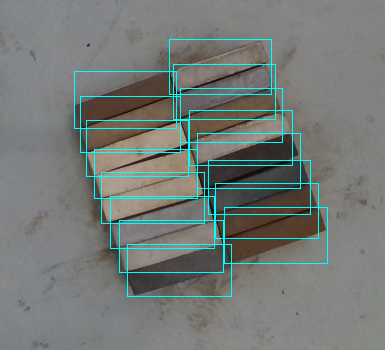
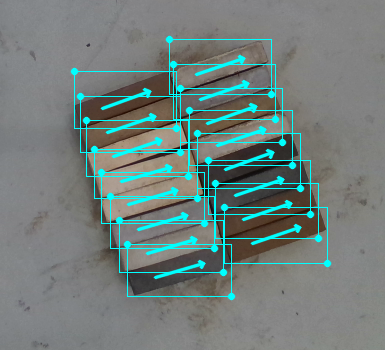
new figures

diff --git a/01 Classic Vision/create_figs_data/create_figs_data.cpp b/01 Classic Vision/create_figs_data/create_figs_data.cpp
@@ -1,9 +1,31 @@
 #include <iostream>
 #include <opencv2/opencv.hpp>
 #include <vector>
-//#include "predictions.h"
+#include "../Includes/predictions.h"
 #include "../Includes/util.h"
 #include "../Includes/annotation_loader.h"
+
+void print_angle_predictions(cv::Mat& img, bounding_box BB, int line_width, cv::Scalar color = cv::Scalar(255, 255, 0))
+{
+    double w = BB.rotated_rect.size.width;
+    double h = BB.rotated_rect.size.height;
+    double angle = BB.rotated_rect.angle;
+    cv::Point2d pt1 = BB.rotated_rect.center + cv::Point2f(w / 2.0 * sin((angle + 90) * CV_PI / 180) * 0.5, -w / 2.0 * cos((angle + 90) * CV_PI / 180) * 0.5);
+    cv::Point2d pt2 = BB.rotated_rect.center - cv::Point2f(w / 2.0 * sin((angle + 90) * CV_PI / 180) * 0.5, -w / 2.0 * cos((angle + 90) * CV_PI / 180) * 0.5);
+
+    cv::arrowedLine(img, pt2, pt1, color, line_width, CV_AA, 0, 0.15);
+}
+
+void draw_rot_rect(cv::Mat& img, cv::RotatedRect rot_rect, cv::Scalar color, int line_width)
+{
+    cv::Point2f rect_points[4];
+    rot_rect.points(rect_points);
+
+    for (int j = 0; j < 4; j++)
+    {
+        cv::line(img, rect_points[j], rect_points[(j + 1) % 4], color, line_width, CV_AA);
+    }
+}
 
 std::string image_str = "colorIMG_193";
 
@@ -38,6 +60,14 @@ int main()
     cv::imshow("img", img_cropped);
     imwrite(image_str + "_annotated.png", img_cropped);
     //-------------------------------------------------------------------------------------------
+    
+    //------------------- Load annotations into bounding box struct -----------------------------
+    std::vector<bounding_box> bounding_boxes;
+    for (int i = 0; i < annotations.Rect_list.size(); i++)
+    {
+        bounding_boxes.push_back(annotations.Rect_list[i]);
+    }
+
 
     // ------------------------- PRINT ROTATED RECT AND ANGLE -----------------------------------
     img = cv::imread("../../03 Data/Simple Dataset Copied/" + image_str + ".png");
@@ -51,7 +81,7 @@ int main()
     util::print_rotated_bounding_boxes(img, rot_rects, cv::Scalar(255,255,0),CV_AA);
     for (int i = 0; i < end_points.size(); i++)
     {
-        cv::arrowedLine(img, rot_rects[i].center-end_points[i], rot_rects[i].center+end_points[i], cv::Scalar(255, 255, 0),1,CV_AA);
+        //cv::arrowedLine(img, rot_rects[i].center-end_points[i], rot_rects[i].center+end_points[i], cv::Scalar(255, 255, 0),1,CV_AA);
     }
     img_cropped = img(roi);
     cv::Mat resized(img_cropped);
@@ -63,16 +93,22 @@ int main()
     // --------------------------- PRINT AXIS-ALIGNED BBOX ---------------------------------------
     img = cv::imread("../../03 Data/Simple Dataset Copied/" + image_str + ".png");
     std::vector<cv::Rect> rects;
+    std::vector<std::vector<cv::Point2f>> AABB_points;
     for (int i = 0; i < annotations.Rect_list.size(); i++)
     {
         rects.push_back(cv::boundingRect(annotations.Rect_list[i]));
     }
 
     util::print_bounding_boxes(img, rects, cv::Scalar(255, 255, 0));
-    //for (int i = 0; i < end_points.size(); i++)
-    //{
-    //    cv::arrowedLine(img, rot_rects[i].center - end_points[i], rot_rects[i].center + end_points[i], cv::Scalar(200, 200, 0), 1, CV_AA);
-    //}
+    std::vector<cv::Point2f > points_;
+    for (int i = 0; i < end_points.size(); i++)
+    {
+        points_.clear();
+        points_.push_back(rects[i].br());
+        points_.push_back(rects[i].tl());
+        cv::arrowedLine(img, rot_rects[i].center - end_points[i], rot_rects[i].center + end_points[i], cv::Scalar(255, 255, 0), 2, CV_AA);
+        util::draw_points(img, points_, pt_radius, dot_color);
+    }
     img_cropped = img(roi);
     cv::imshow("Upright bbox", img_cropped);
     imwrite(image_str+"_axis_aligned.png", img_cropped);
